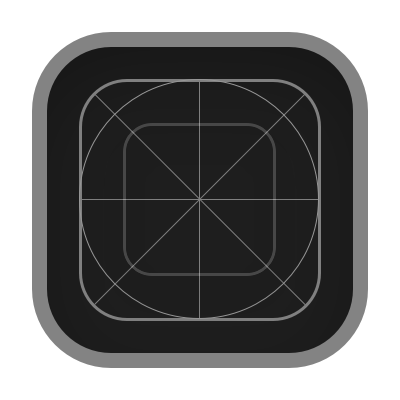
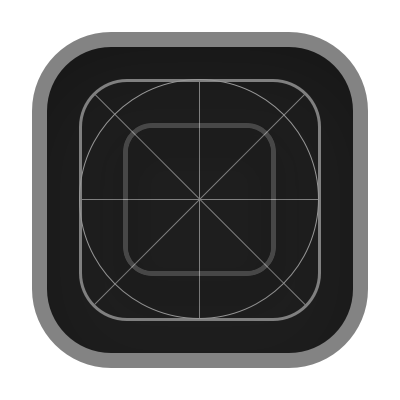
optimized assets workflow and updated assets

diff --git a/lib/pages/iconchooser_sheet_page.dart b/lib/pages/iconchooser_sheet_page.dart
@@ -87,8 +87,7 @@ class _IconChooserSheetPageState extends ConsumerState<IconChooserSheetPage> {
                         children: [
                           Opacity(
                             opacity: 0.4,
-                            child: Image(
-                              image: Assets.images.alterIconFrame.provider(),
+                            child: Assets.images.alterIconFrame.image(
                               width: 155,
                               height: 155,
                             ),
@@ -123,20 +122,15 @@ class _IconChooserSheetPageState extends ConsumerState<IconChooserSheetPage> {
                                     width: 145,
                                     height: 145,
                                   )
-                                : Stack(
-                                    alignment: Alignment.center,
-                                    children: [
-                                      Image(
-                                        image: brightness == Brightness.dark
-                                            ? Assets.images.alterEmptyDark
-                                                .provider()
-                                            : Assets.images.alterEmptyLight
-                                                .provider(),
+                                : brightness == Brightness.dark
+                                    ? Assets.images.alterEmptyDark.image(
+                                        width: 145,
+                                        height: 145,
+                                      )
+                                    : Assets.images.alterEmptyLight.image(
                                         width: 145,
                                         height: 145,
                                       ),
-                                    ],
-                                  ),
                           )
                         ],
                       ),

diff --git a/lib/pages/starter_page.dart b/lib/pages/starter_page.dart
@@ -1,4 +1,5 @@
 // Third-party imports.
+import 'package:alter/gen/assets.gen.dart';
 import 'package:flutter/cupertino.dart';
 import 'package:macos_ui/macos_ui.dart';
 
@@ -58,29 +59,16 @@ class StarterPage extends StatelessWidget {
                     padding: const EdgeInsets.only(
                       bottom: 20,
                     ),
-                    child: const MouseRegion(
+                    child: MouseRegion(
                       cursor: SystemMouseCursors.click,
                       child: Opacity(
                         opacity: 0.78,
                         child: Column(
                           mainAxisAlignment: MainAxisAlignment.center,
                           children: [
-                            Row(
-                              mainAxisAlignment: MainAxisAlignment.center,
-                              crossAxisAlignment: CrossAxisAlignment.center,
-                              children: [
-                                MacosIcon(
-                                  CupertinoIcons.add_circled_solid,
-                                  color: CupertinoColors.systemGrey,
-                                  size: 100,
-                                ),
-                                SizedBox(width: 10),
-                                MacosIcon(
-                                  CupertinoIcons.hammer_fill,
-                                  color: CupertinoColors.systemGrey,
-                                  size: 100,
-                                )
-                              ],
+                            Assets.images.alterStarter.image(
+                              width: 200,
+                              height: 200,
                             ),
                             SizedBox(height: 25),
                             Text(

diff --git a/lib/gen/assets.gen.dart b/lib/gen/assets.gen.dart
@@ -24,13 +24,22 @@ class $AssetsImagesGen {
   AssetGenImage get alterIconFrame =>
       const AssetGenImage('assets/images/alter_icon_frame.png');
 
+  /// File path: assets/images/alter_starter.png
+  AssetGenImage get alterStarter =>
+      const AssetGenImage('assets/images/alter_starter.png');
+
   /// File path: assets/images/alter_warning.png
   AssetGenImage get alterWarning =>
       const AssetGenImage('assets/images/alter_warning.png');
 
   /// List of all assets
-  List<AssetGenImage> get values =>
-      [alterEmptyDark, alterEmptyLight, alterIconFrame, alterWarning];
+  List<AssetGenImage> get values => [
+        alterEmptyDark,
+        alterEmptyLight,
+        alterIconFrame,
+        alterStarter,
+        alterWarning
+      ];
 }
 
 class Assets {
